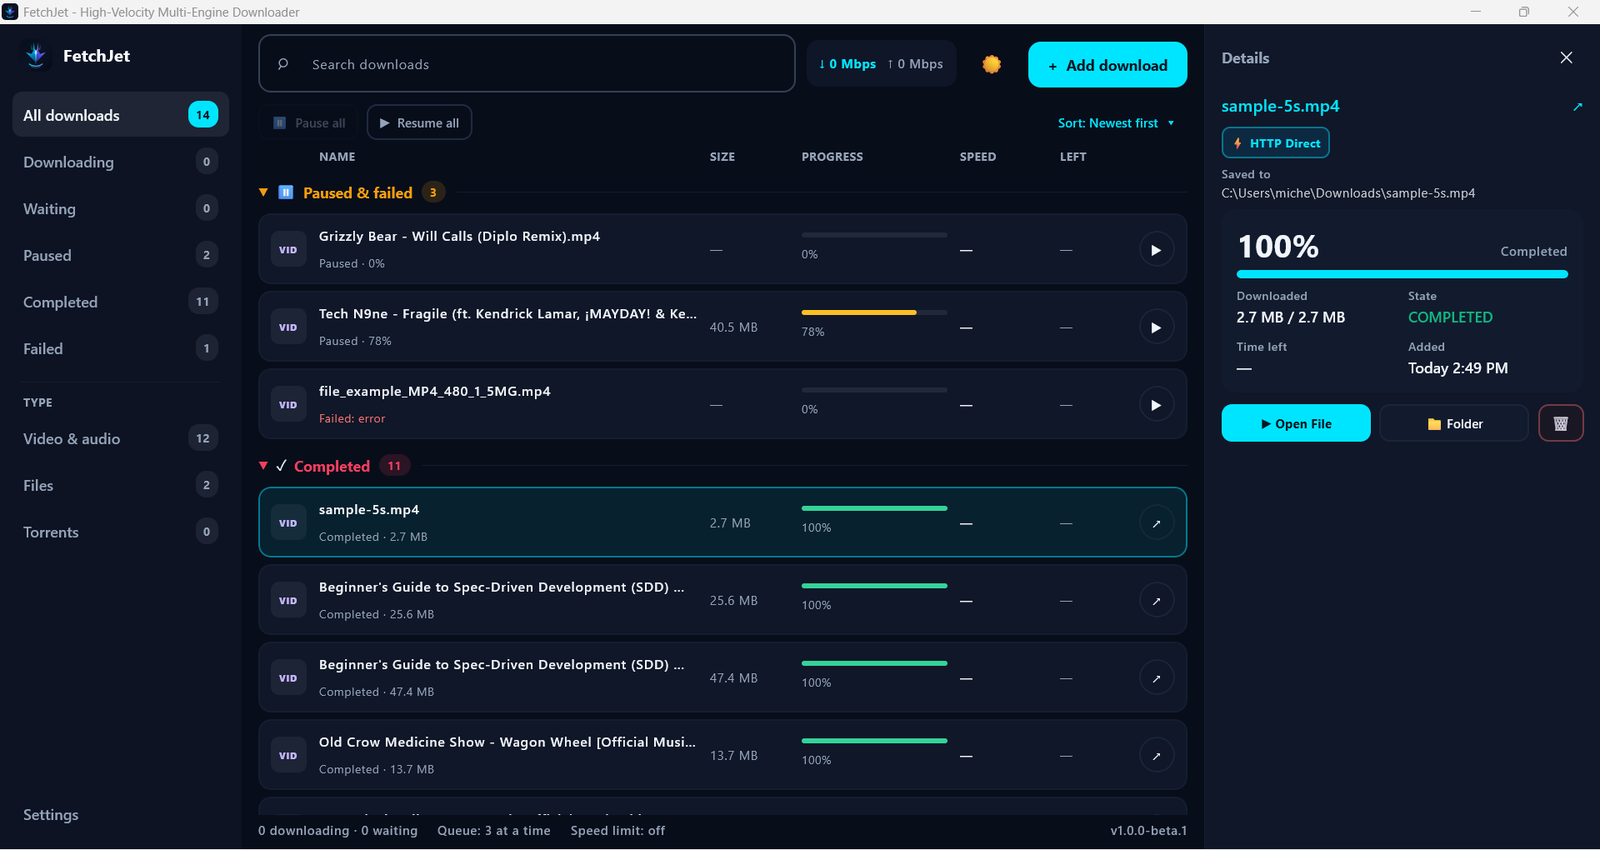
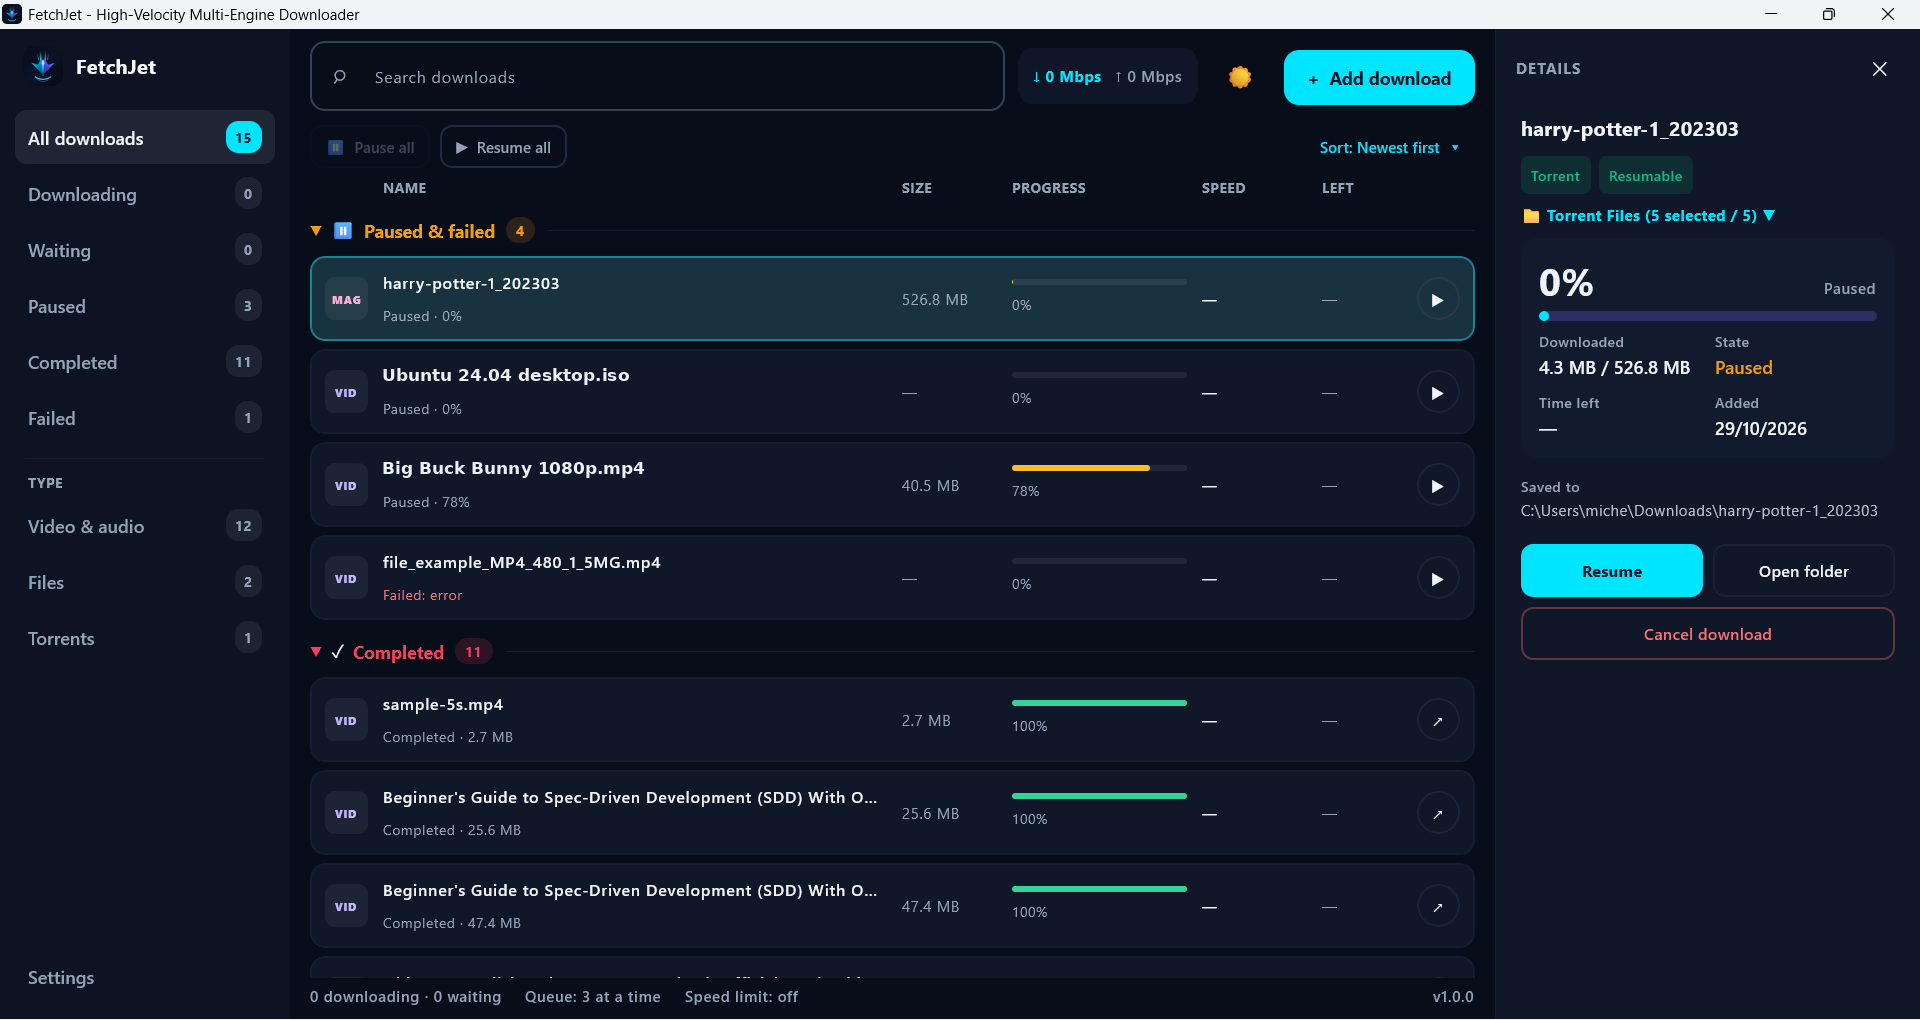
Add Android browser keep-ready service, Windows Store startup task, browser extension fallback, and bump version to 1.0.1
- Introduce `BrowserReadyService` foreground service and "Keep ready for the browser" setting on Android to keep the local server active for browser extension quality requests.
- Add Android background state availability checks in the browser extension with a fallback "Open in FetchJet" action when the app is suspended.
- Implement Windows Store (MSIX) startup task configuration, login launch heuristics based on system uptime, and UI support redirecting to Windows Startup Settings.
- Add Microsoft Store download links and badges to the README and website documentation.
- Bump application version to 1.0.1 across shared logic and iOS project configuration.

diff --git a/extension/background.js b/extension/background.js
@@ -15,6 +15,12 @@ const FETCHJET_PORT = 28450;
 const FETCHJET_BASE = `http://127.0.0.1:${FETCHJET_PORT}`;
 const NATIVE_HOST_NAME = "com.michelle.raouf.fetch_jet_downloader";
 const PROTOCOL = "fetchjet://download?url=";
+// Android freezes FetchJet while Firefox is in front, so asking it for qualities hangs until the
+// app is opened. If the app answers a quick ping (its "Keep ready for the browser" setting is on)
+// qualities are fetched as on desktop; otherwise the page button opens the app with the link and
+// the app lists the qualities itself.
+const ON_ANDROID = /android/i.test(navigator.userAgent);
+async function androidAppAwake() { return ON_ANDROID && await pingApp(1200); }
 
 // ---------------------------------------------------------------------------
 // Settings
@@ -674,6 +680,13 @@ async function resolveYoutube(tabId, pageUrl, force = false) {
   const videoId = ytVideoId(pageUrl);
   if (!videoId) return;
   const current = await tabState(YT_KEY, tabId);
+  if (ON_ANDROID && !(await androidAppAwake())) {
+    if (!(current && current.videoId === videoId && current.openApp)) {
+      await setTabState(YT_KEY, tabId, { ...((current && current.videoId === videoId) ? current : { videoId, sabr: false, streams: {} }), openApp: true });
+      pushToTab(tabId);
+    }
+    return;
+  }
   if (!force && current && current.videoId === videoId && (current.resolved || current.resolving || current.resolveError)) return;
   if (resolving.get(tabId) === videoId) return;
   const settings = await getSettings();
@@ -699,6 +712,13 @@ async function resolvePage(tabId, page, force = false, embedded = false) {
   // YouTube's own pages go through resolveYoutube; a YouTube player embedded elsewhere goes here.
   if (!page || !/^https?:/i.test(page) || (ytVideoId(page) && !embedded)) return;
   const current = await tabState(RES_KEY, tabId);
+  if (ON_ANDROID && !(await androidAppAwake())) {
+    if (!(current && current.page === page && current.openApp)) {
+      await setTabState(RES_KEY, tabId, { page, openApp: true });
+      pushToTab(tabId);
+    }
+    return;
+  }
   if (!force && current && current.page === page && (current.resolved || current.resolving || current.resolveError)) return;
   if (resolving.get(tabId) === page) return;
   if (!force) {
@@ -727,6 +747,10 @@ async function itemsForTab(tabId) {
   const media = Object.values(mediaAll[tabId] || {}).sort((a, b) => (b.size || 0) - (a.size || 0));
   const items = [];
   let pageTitle = "";
+  if (ON_ANDROID) {
+    const page = (yt && yt.openApp) ? `https://www.youtube.com/watch?v=${yt.videoId}` : (res && res.openApp ? res.page : "");
+    if (page) items.push({ kind: "openApp", label: "Open in FetchJet", sub: "Pick the quality in the app", url: page });
+  }
   if (yt) {
     const captured = typeof ytBuildOptions === "function" ? ytBuildOptions(yt.streams) : [];
     if (yt.resolved && yt.resolved.options.length) {
@@ -736,11 +760,17 @@ async function itemsForTab(tabId) {
       items.push(...captured.map(o => ({ ...o, referer: "https://www.youtube.com/" })));
       if (yt.resolving) items.push({ label: "Getting all qualities from FetchJet (yt-dlp)…", sub: "Captured streams are shown meanwhile", disabled: true });
     } else if (yt.resolving) {
-      items.push({ label: "Getting video qualities…", sub: "This takes a few seconds", disabled: true });
+      items.push({ label: "Getting video qualities…", sub: /android/i.test(navigator.userAgent) ? "Up to a minute on a phone" : "This takes a few seconds", disabled: true });
     } else if (yt.resolveError) {
       items.push({ label: "Can't get this video", sub: yt.resolveError, disabled: true });
     } else if (yt.sabr) {
-      items.push({ label: "Qualities come from FetchJet (yt-dlp) for this video", sub: "Start FetchJet (Settings → Download Tools once), then click Get qualities or reload the page", disabled: true });
+      items.push({
+        label: "Qualities come from FetchJet (yt-dlp) for this video",
+        sub: /android/i.test(navigator.userAgent)
+          ? "Open the FetchJet app, then reload this page"
+          : "Start FetchJet (Settings → Download Tools once), then click Get qualities or reload the page",
+        disabled: true
+      });
     }
   }
   if (res && !yt) {
@@ -784,6 +814,14 @@ async function downloadItem(item, tab) {
   const pageUrl = (tab && tab.url) || item.referer || "";
   const title = item.title || (tab && tab.title) || "video";
   const clean = typeof ytCleanTitle === "function" ? ytCleanTitle(title) : title;
+  if (item.kind === "openApp") {
+    // Android: the app opens with the link and shows the qualities itself.
+    try {
+      const t = await api.tabs.create({ url: PROTOCOL + encodeURIComponent(item.url), active: true });
+      if (t && t.id != null) setTimeout(() => api.tabs.remove(t.id).catch(() => {}), 1500);
+      return { ok: true };
+    } catch (_) { return { ok: false, reason: "could not open FetchJet" }; }
+  }
   if (item.kind === "ytdlp") {
     const fileName = `${clean}${item.quality ? " [" + item.quality + "]" : ""}.${item.ext || "mp4"}`;
     let r = await sendToFetchJet({ url: item.url, formatId: item.formatId, fileName, referer: pageUrl }, "quality");

diff --git a/sharedLogic/src/androidMain/kotlin/com/michelle/raouf/fetch_jet/core/browser/BrowserReadyService.kt b/sharedLogic/src/androidMain/kotlin/com/michelle/raouf/fetch_jet/core/browser/BrowserReadyService.kt
@@ -1,0 +1,95 @@
+package com.michelle.raouf.fetch_jet.core.browser
+
+import android.app.NotificationChannel
+import android.app.NotificationManager
+import android.app.PendingIntent
+import android.app.Service
+import android.content.Context
+import android.content.Intent
+import android.content.pm.ServiceInfo
+import android.os.Build
+import android.os.IBinder
+import androidx.core.app.NotificationCompat
+import androidx.core.app.ServiceCompat
+
+/**
+ * "Keep ready for the browser": a quiet foreground service whose only job is to stop Android
+ * from freezing FetchJet in the background, so the Firefox extension can ask the app
+ * (127.0.0.1:28450) for video qualities without the user opening it first. It holds no wake
+ * lock: when the phone sleeps, nothing runs.
+ */
+class BrowserReadyService : Service() {
+
+    override fun onBind(intent: Intent?): IBinder? = null
+
+    override fun onStartCommand(intent: Intent?, flags: Int, startId: Int): Int {
+        if (intent?.action == ACTION_TURN_OFF) {
+            BrowserIntegration.setKeepReadyForBrowser(false)
+            return START_NOT_STICKY
+        }
+        createChannel()
+        val turnOff = PendingIntent.getService(
+            this, 0,
+            Intent(this, BrowserReadyService::class.java).setAction(ACTION_TURN_OFF),
+            PendingIntent.FLAG_IMMUTABLE or PendingIntent.FLAG_UPDATE_CURRENT
+        )
+        val open = packageManager.getLaunchIntentForPackage(packageName)?.let {
+            PendingIntent.getActivity(this, 1, it, PendingIntent.FLAG_IMMUTABLE)
+        }
+        val notification = NotificationCompat.Builder(this, CHANNEL_ID)
+            .setSmallIcon(android.R.drawable.stat_sys_download_done)
+            .setContentTitle("FetchJet is ready for your browser")
+            .setContentText("Video qualities show right in Firefox")
+            .setOngoing(true)
+            .setSilent(true)
+            .setPriority(NotificationCompat.PRIORITY_MIN)
+            .setContentIntent(open)
+            .addAction(0, "Turn off", turnOff)
+            .build()
+        val type =
+            if (Build.VERSION.SDK_INT >= 34) ServiceInfo.FOREGROUND_SERVICE_TYPE_SPECIAL_USE else 0
+        try {
+            ServiceCompat.startForeground(this, NOTIFICATION_ID, notification, type)
+        } catch (_: Exception) {
+            // Started while the app was not allowed to (Android 12+ background start): give up quietly.
+            stopSelf()
+            return START_NOT_STICKY
+        }
+        return START_STICKY
+    }
+
+    private fun createChannel() {
+        if (Build.VERSION.SDK_INT < 26) return
+        val nm = getSystemService(NotificationManager::class.java) ?: return
+        if (nm.getNotificationChannel(CHANNEL_ID) != null) return
+        nm.createNotificationChannel(
+            NotificationChannel(
+                CHANNEL_ID,
+                "Browser extension",
+                NotificationManager.IMPORTANCE_MIN
+            ).apply {
+                description = "Shown while FetchJet stays ready for the browser extension"
+                setShowBadge(false)
+            }
+        )
+    }
+
+    companion object {
+        private const val CHANNEL_ID = "fetchjet_browser_ready"
+        private const val NOTIFICATION_ID = 7302
+        private const val ACTION_TURN_OFF = "com.michelle.raouf.fetch_jet.BROWSER_READY_OFF"
+
+        fun start(context: Context) {
+            try {
+                androidx.core.content.ContextCompat.startForegroundService(
+                    context, Intent(context, BrowserReadyService::class.java)
+                )
+            } catch (_: Exception) {
+            }
+        }
+
+        fun stop(context: Context) {
+            context.stopService(Intent(context, BrowserReadyService::class.java))
+        }
+    }
+}

diff --git a/sharedUI/src/commonMain/kotlin/com/michelle/raouf/fetch_jet/ui/StartupUi.kt b/sharedUI/src/commonMain/kotlin/com/michelle/raouf/fetch_jet/ui/StartupUi.kt
@@ -27,6 +27,33 @@ import kotlinx.coroutines.launch
 /** Settings (desktop): start FetchJet when the user logs in, optionally hidden in the tray. */
 @Composable
 fun StartupSettingsCard() {
+    StartupLauncher.managedBySystemUri?.let { settingsUri ->
+        // Microsoft Store build: the switch lives in Windows itself.
+        val uri = androidx.compose.ui.platform.LocalUriHandler.current
+        var startHidden by remember { mutableStateOf(StartupPreferences.startHidden) }
+        SettingsGroup(
+            title = "Startup",
+            footer = "The Store version is started by Windows: turn FetchJet on under Settings > Apps > Startup."
+        ) {
+            SettingRow(
+                title = "Start FetchJet when you log in",
+                subtitle = "Managed by Windows",
+                onClick = { uri.openUri(settingsUri) }
+            ) {
+                androidx.compose.material3.OutlinedButton(onClick = { uri.openUri(settingsUri) }) {
+                    Text("Open Windows settings", fontWeight = FontWeight.SemiBold)
+                }
+            }
+            SettingDivider()
+            SettingSwitch(
+                title = "Start hidden in the tray",
+                subtitle = "When started at login, stay in the tray instead of opening the window.",
+                checked = startHidden,
+                onChange = { startHidden = it; StartupPreferences.startHidden = it }
+            )
+        }
+        return
+    }
     if (!StartupLauncher.isSupported) return
     val scope = rememberCoroutineScope()
     var enabled by remember { mutableStateOf(false) }

diff --git a/sharedLogic/src/androidMain/kotlin/com/michelle/raouf/fetch_jet/core/browser/BrowserIntegration.android.kt b/sharedLogic/src/androidMain/kotlin/com/michelle/raouf/fetch_jet/core/browser/BrowserIntegration.android.kt
@@ -1,5 +1,8 @@
 package com.michelle.raouf.fetch_jet.core.browser
 
+import android.content.Context
+import com.michelle.raouf.fetch_jet.core.filesystem.PathResolver
+
 actual object BrowserIntegration {
     actual val canAddToEdgeAutomatically: Boolean get() = false
     actual fun isEdgeRegistered(): Boolean = false
@@ -10,4 +13,26 @@ actual object BrowserIntegration {
         Result.failure(UnsupportedOperationException("Desktop only"))
 
     actual fun setUpOnFirstRun() {}
+
+    private const val PREFS = "fetchjet_browser"
+    private const val KEY_KEEP_READY = "keepReady"
+
+    private fun prefs() =
+        PathResolver.appContext?.getSharedPreferences(PREFS, Context.MODE_PRIVATE)
+
+    actual val canKeepReadyForBrowser: Boolean get() = true
+
+    actual fun isKeptReadyForBrowser(): Boolean =
+        prefs()?.getBoolean(KEY_KEEP_READY, false) ?: false
+
+    actual fun setKeepReadyForBrowser(enabled: Boolean) {
+        val ctx = PathResolver.appContext ?: return
+        prefs()?.edit()?.putBoolean(KEY_KEEP_READY, enabled)?.apply()
+        if (enabled) BrowserReadyService.start(ctx) else BrowserReadyService.stop(ctx)
+    }
+
+    actual fun restoreKeepReady() {
+        val ctx = PathResolver.appContext ?: return
+        if (isKeptReadyForBrowser()) BrowserReadyService.start(ctx)
+    }
 }

diff --git a/sharedLogic/src/jvmMain/kotlin/com/michelle/raouf/fetch_jet/core/platform/WindowsStorePackage.kt b/sharedLogic/src/jvmMain/kotlin/com/michelle/raouf/fetch_jet/core/platform/WindowsStorePackage.kt
@@ -12,4 +12,30 @@ object WindowsStorePackage {
             ?: System.getProperty("user.dir").orEmpty()
         path.contains("\\WindowsApps\\", ignoreCase = true)
     }
+
+    /**
+     * The Store build is started at login by Windows' own startup task, which passes no
+     * arguments. Best guess instead: a plain launch within two minutes of boot came from it.
+     */
+    fun looksLikeLoginStart(): Boolean {
+        if (!isInstalled) return false
+        return try {
+            val p = ProcessBuilder(
+                "powershell",
+                "-NoProfile",
+                "-NonInteractive",
+                "-Command",
+                "[Environment]::TickCount64"
+            ).redirectErrorStream(true).start()
+            val out = p.inputStream.bufferedReader().readText().trim()
+            if (!p.waitFor(5, java.util.concurrent.TimeUnit.SECONDS)) {
+                p.destroy(); return false
+            }
+            val upMs =
+                out.lines().lastOrNull { it.isNotBlank() }?.trim()?.toLongOrNull() ?: return false
+            upMs < 2 * 60 * 1000L
+        } catch (_: Exception) {
+            false
+        }
+    }
 }

diff --git a/docs/index.html b/docs/index.html
@@ -101,7 +101,12 @@
 
       var PLATFORMS = [
         { key: "windows",   label: "Windows",   match: function (n) { return /\.(exe|msi)$/i.test(n); },
-          hint: "The .msi installs and lets FetchJet update itself; the .exe is the same installer in a single file." },
+          hint: "The .msi installs and lets FetchJet update itself; the .exe is the same installer in a single file.",
+          noticeHtml:
+            '<div class="notice"><h3>Get it from the Microsoft Store (recommended)</h3>' +
+            'One click to install, no SmartScreen warning, and Windows keeps it updated.' +
+            '<div class="stores"><a class="btn" href="https://apps.microsoft.com/detail/9NP3HJRHMPJS">Microsoft Store</a></div>' +
+            '<div class="hint">Prefer an installer? Take the .msi or .exe below; it updates itself from GitHub.</div></div>' },
         { key: "macos",     label: "macOS",     match: function (n) { return /\.dmg$/i.test(n); },
           hint: "Open the .dmg and drag FetchJet to Applications." },
         { key: "linux",     label: "Linux",     match: function (n) { return /\.(deb|tar\.gz|AppImage)$/i.test(n); },

diff --git a/sharedUI/src/commonMain/kotlin/com/michelle/raouf/fetch_jet/ui/FdmSettingsPanel.kt b/sharedUI/src/commonMain/kotlin/com/michelle/raouf/fetch_jet/ui/FdmSettingsPanel.kt
@@ -688,6 +688,20 @@ private fun BrowserExtensionPage(isDesktop: Boolean) {
                 ) {
                     storeButton("Add to Firefox", AMO_URL)
                 }
+                val bi = com.michelle.raouf.fetch_jet.core.browser.BrowserIntegration
+                if (bi.canKeepReadyForBrowser) {
+                    var keepReady by remember { mutableStateOf(bi.isKeptReadyForBrowser()) }
+                    SettingDivider()
+                    SettingSwitch(
+                        title = "Keep ready for the browser",
+                        subtitle = if (keepReady)
+                            "Video qualities show right in Firefox. A quiet notification stays while this is on."
+                        else
+                            "Off: Firefox opens FetchJet and you pick the quality here. On: qualities show in Firefox (keeps a notification).",
+                        checked = keepReady,
+                        onChange = { keepReady = it; bi.setKeepReadyForBrowser(it) }
+                    )
+                }
             }
         }
     }

diff --git a/desktopApp/src/main/kotlin/com/michelle/raouf/fetch_jet/main.kt b/desktopApp/src/main/kotlin/com/michelle/raouf/fetch_jet/main.kt
@@ -540,7 +540,10 @@ fun main(rawArgs: Array<String>) {
     // Started by the OS at login (see StartupLauncher): remember it, and never treat the flag
     // as a link to download.
     val startedAtLogin =
-        rawArgs.any { it.trim() == com.michelle.raouf.fetch_jet.core.startup.AUTOSTART_ARG }
+        rawArgs.any { it.trim() == com.michelle.raouf.fetch_jet.core.startup.AUTOSTART_ARG } ||
+                // Microsoft Store build: Windows' startup task starts it with no arguments.
+                (rawArgs.isEmpty() &&
+                        com.michelle.raouf.fetch_jet.core.platform.WindowsStorePackage.looksLikeLoginStart())
     com.michelle.raouf.fetch_jet.core.startup.StartupPreferences.launchedAtLogin = startedAtLogin
     val args =
         rawArgs.filter { it.trim() != com.michelle.raouf.fetch_jet.core.startup.AUTOSTART_ARG }

diff --git a/sharedLogic/src/commonMain/kotlin/com/michelle/raouf/fetch_jet/core/browser/BrowserIntegration.kt b/sharedLogic/src/commonMain/kotlin/com/michelle/raouf/fetch_jet/core/browser/BrowserIntegration.kt
@@ -27,4 +27,16 @@ expect object BrowserIntegration {
 
     /** Called once at app start: writes the Edge entry the first time FetchJet runs. */
     fun setUpOnFirstRun()
+
+    /**
+     * Android: "Keep ready for the browser". Android freezes apps in the background, so the
+     * Firefox extension could not ask FetchJet for video qualities until the app was opened.
+     * A quiet foreground service (with a notification) keeps it answering. Off by default.
+     */
+    val canKeepReadyForBrowser: Boolean
+    fun isKeptReadyForBrowser(): Boolean
+    fun setKeepReadyForBrowser(enabled: Boolean)
+
+    /** Called at app start: starts the service again if the user turned the option on. */
+    fun restoreKeepReady()
 }

diff --git a/androidApp/src/main/kotlin/com/michelle/raouf/fetch_jet/MainActivity.kt b/androidApp/src/main/kotlin/com/michelle/raouf/fetch_jet/MainActivity.kt
@@ -59,6 +59,8 @@ class MainActivity : ComponentActivity() {
         com.michelle.raouf.fetch_jet.core.log.AppLog.verbose = BuildConfig.VERBOSE_LOGS
         // Lets the FetchJet extension in Firefox for Android send links to this app.
         ExtensionBridgeServer.start(applicationContext)
+        // "Keep ready for the browser" (Settings > Browser): restart its service if it is on.
+        com.michelle.raouf.fetch_jet.core.browser.BrowserIntegration.restoreKeepReady()
         com.michelle.raouf.fetch_jet.core.filesystem.TorrentFilePicker.launcher = { onResult ->
             torrentPickCallback = onResult
             try {

diff --git a/sharedLogic/src/commonMain/kotlin/com/michelle/raouf/fetch_jet/core/startup/StartupLauncher.kt b/sharedLogic/src/commonMain/kotlin/com/michelle/raouf/fetch_jet/core/startup/StartupLauncher.kt
@@ -14,6 +14,12 @@ import kotlin.concurrent.Volatile
 expect object StartupLauncher {
     /** false on Android/iOS, and on desktop when run from Gradle/an IDE instead of the installed app. */
     val isSupported: Boolean
+
+    /**
+     * Microsoft Store build: Windows owns the switch (Settings > Apps > Startup); the app only
+     * opens that page. null elsewhere.
+     */
+    val managedBySystemUri: String?
     suspend fun isEnabled(): Boolean
     suspend fun setEnabled(enabled: Boolean): Result<Unit>
 }

diff --git a/sharedLogic/src/androidMain/kotlin/com/michelle/raouf/fetch_jet/core/startup/StartupLauncher.android.kt b/sharedLogic/src/androidMain/kotlin/com/michelle/raouf/fetch_jet/core/startup/StartupLauncher.android.kt
@@ -3,6 +3,7 @@ package com.michelle.raouf.fetch_jet.core.startup
 /** Phones do not start apps at login; the setting is hidden there. */
 actual object StartupLauncher {
     actual val isSupported: Boolean = false
+    actual val managedBySystemUri: String? get() = null
     actual suspend fun isEnabled(): Boolean = false
     actual suspend fun setEnabled(enabled: Boolean): Result<Unit> =
         Result.failure(UnsupportedOperationException("not available on this platform"))
